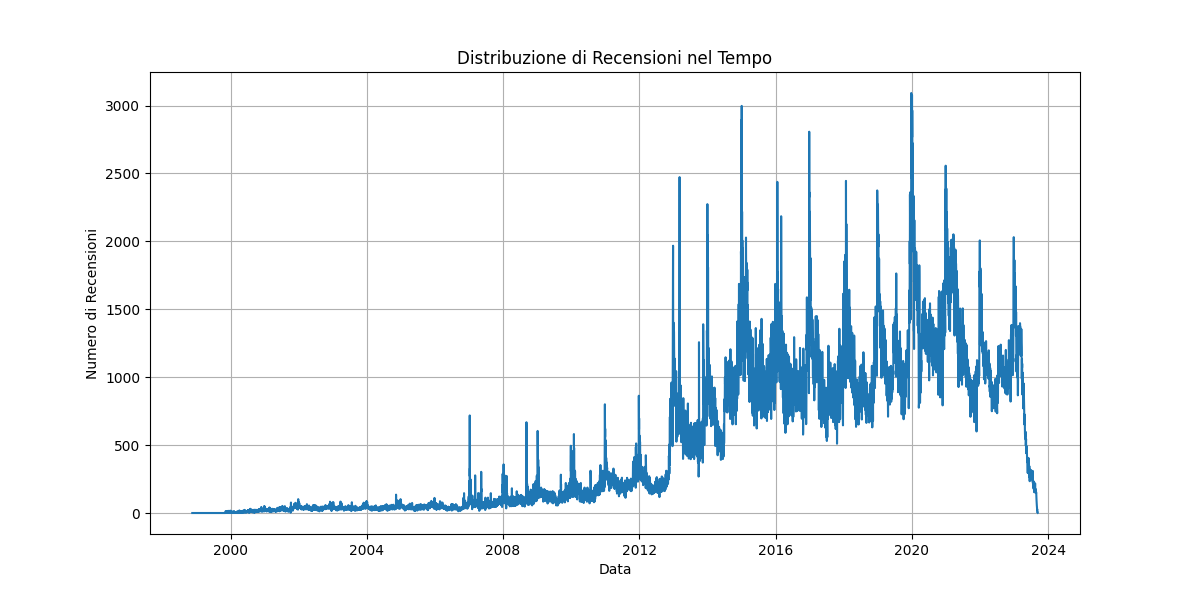
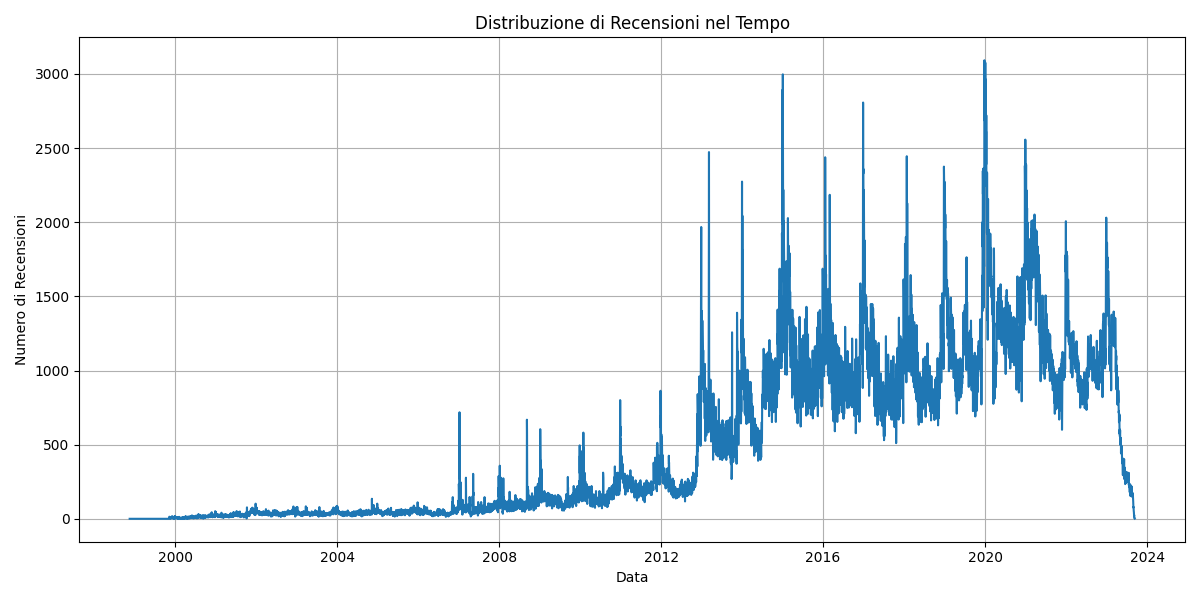
chore: Update data visualization script with formatting and labeling improvements

diff --git a/script/data_esploration/data_visualization.py b/script/data_esploration/data_visualization.py
@@ -19,6 +19,7 @@ def plot_rev_timedist(saveFig=False, figName="imgs/rev_time_dist.png"):
     plt.xlabel("Data")
     plt.ylabel("Numero di Recensioni")
     plt.grid(True)
+    plt.tight_layout()
     if saveFig:
         plt.savefig(figName)
     plt.show()
